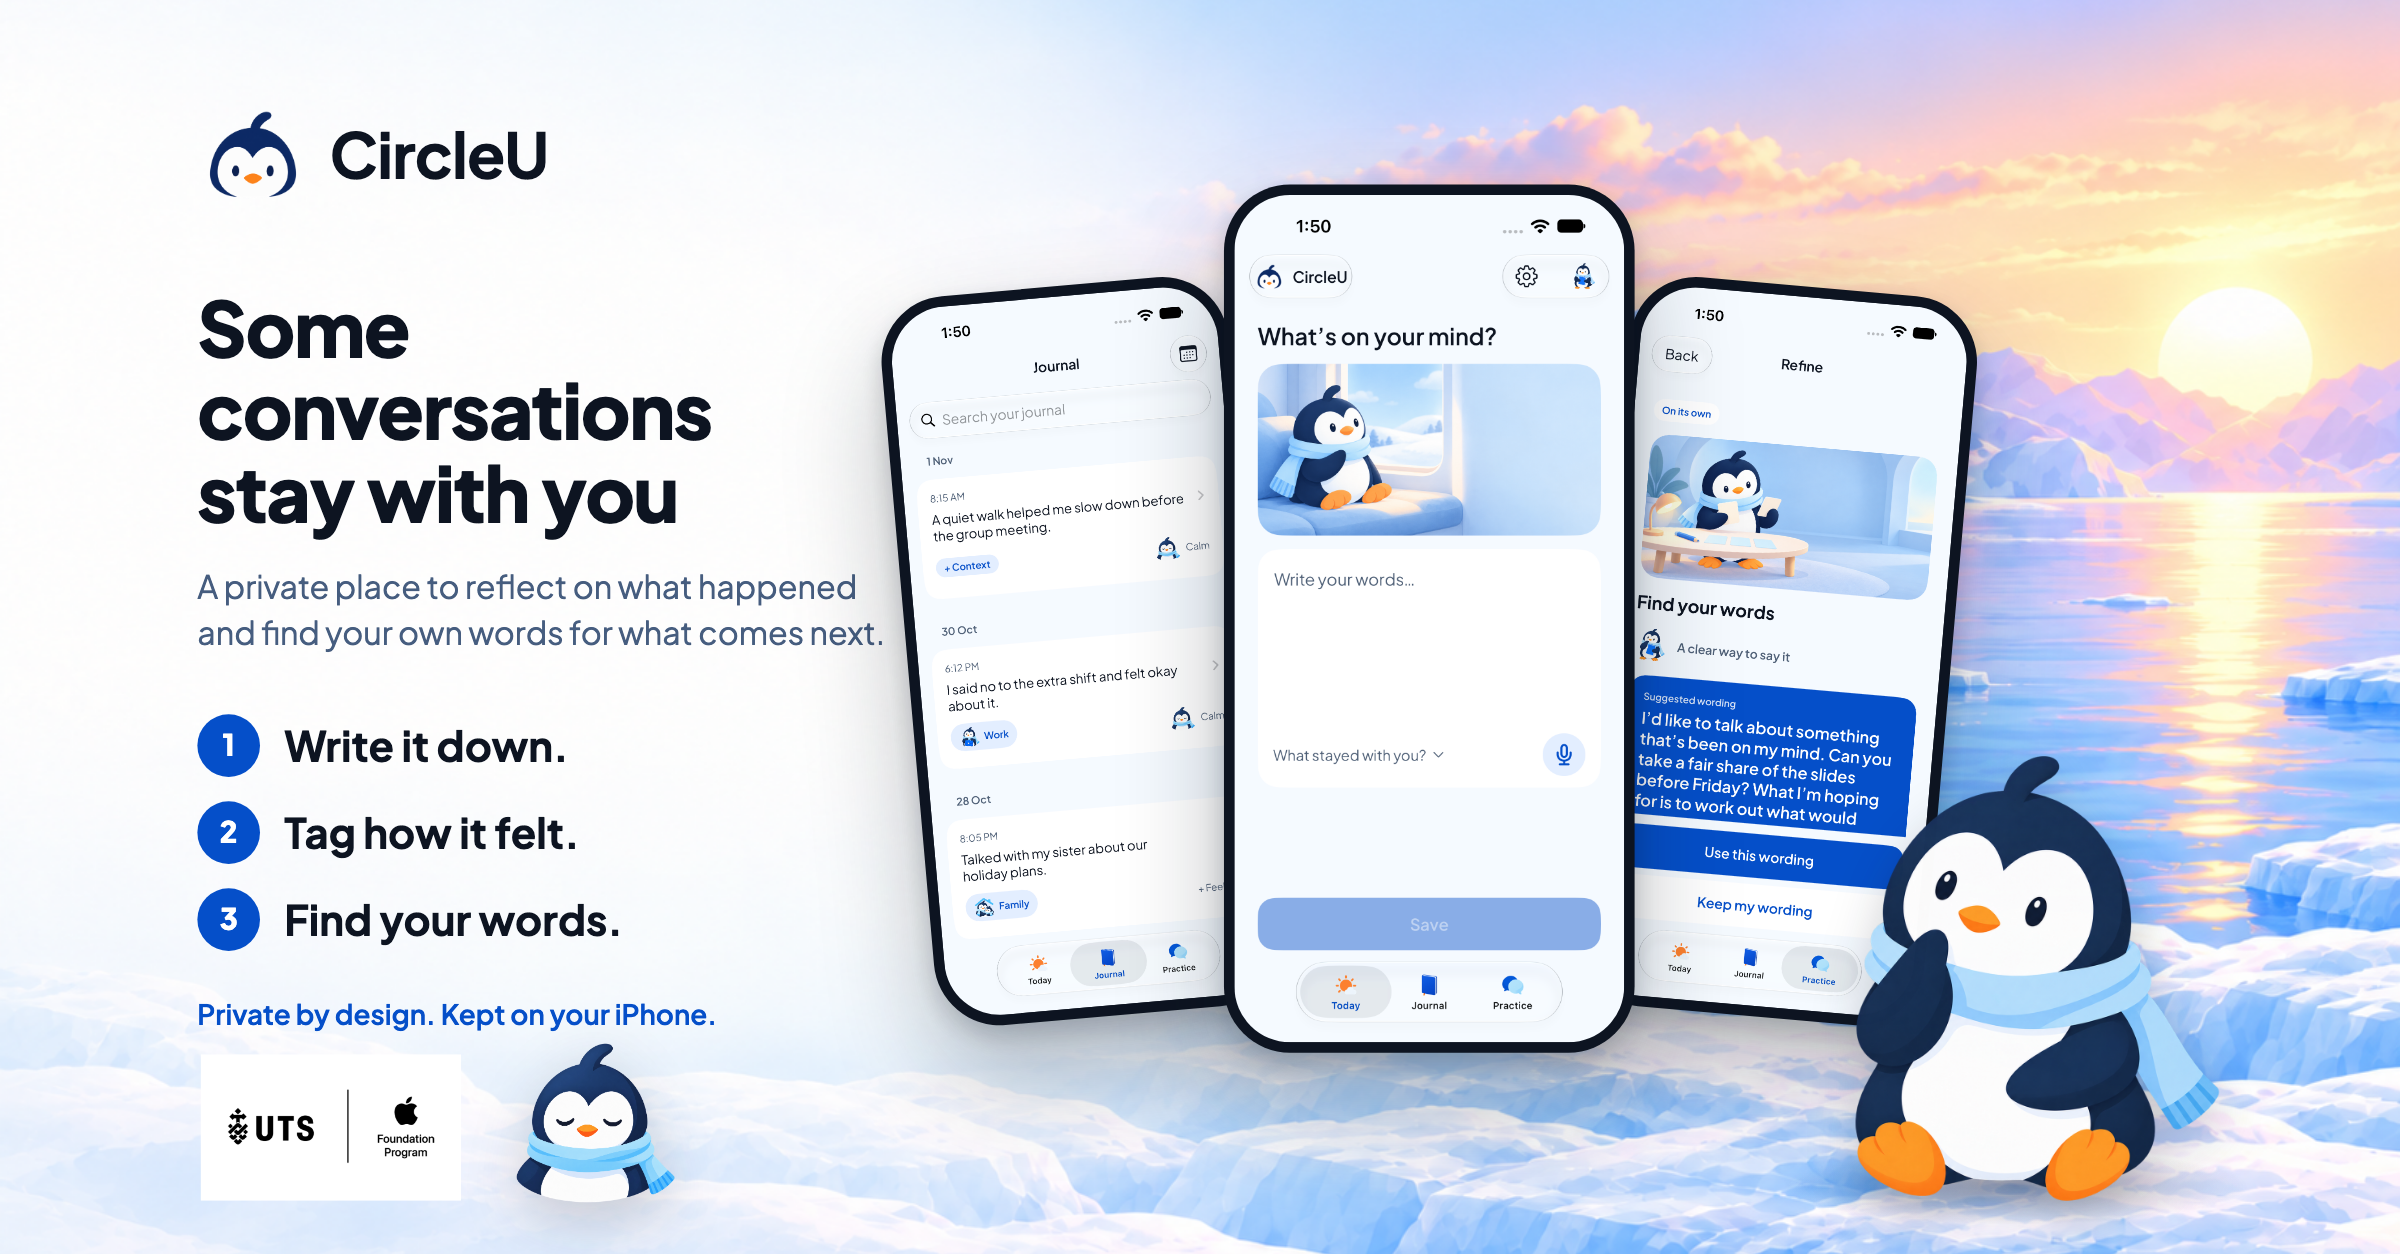
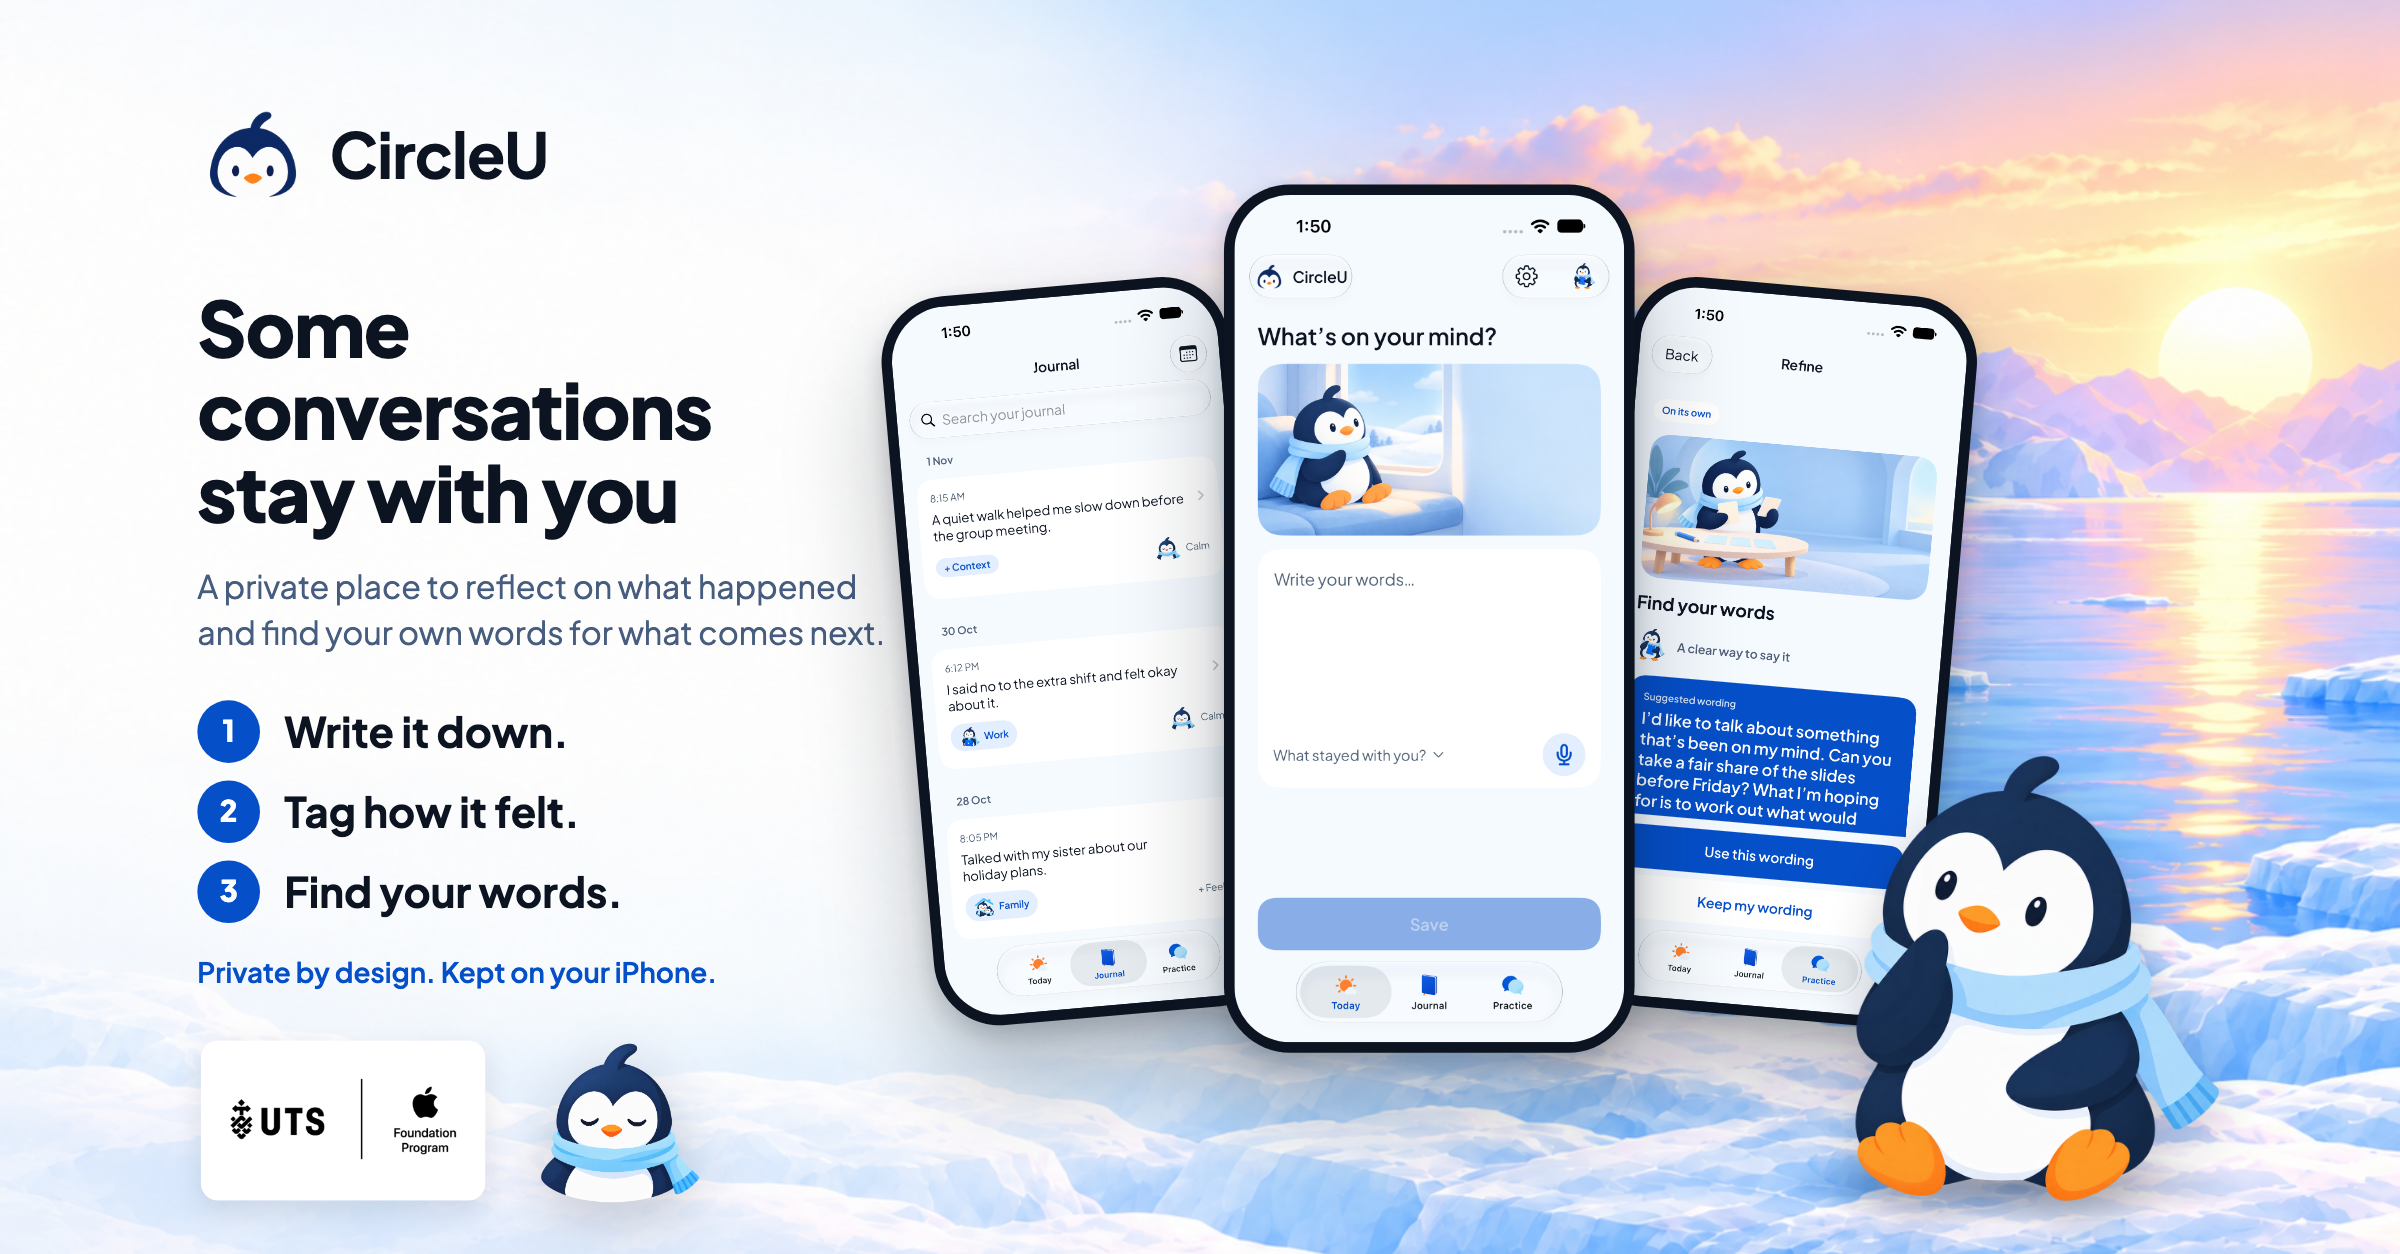
docs(poster): lockup on its white panel, larger; copy spacing tightened

Changed region(s): [[0.0625, 0.5598, 0.3125, 0.9641], [0.0938, 0.8708, 0.1875, 0.933]]

diff --git a/docs/design/showcase-2026-10-30/refinement-07/poster.html b/docs/design/showcase-2026-10-30/refinement-07/poster.html
@@ -31,14 +31,14 @@
   h1 { margin-top: 44px; font-size: 44px; line-height: 1.08; font-weight: 800; letter-spacing: -0.8px; }
   .intro { margin-top: 18px; font-size: 18.5px; line-height: 1.4; color: #465d7f; }
   .label { margin-top: 30px; font-size: 15px; font-weight: 700; color: #054fc9; }
-  .steps { margin-top: 34px; list-style: none; counter-reset: step; }
-  .steps li { counter-increment: step; display: flex; align-items: center; gap: 14px; font-size: 24px; font-weight: 700; line-height: 1.2; margin-bottom: 14px; }
+  .steps { margin-top: 26px; list-style: none; counter-reset: step; }
+  .steps li { counter-increment: step; display: flex; align-items: center; gap: 14px; font-size: 24px; font-weight: 700; line-height: 1.2; margin-bottom: 10px; }
   .steps li::before { content: counter(step); width: 36px; height: 36px; border-radius: 50%; background: #054fc9; color: #fff;
                       font-size: 17px; font-weight: 800; display: inline-flex; align-items: center; justify-content: center; flex: none; }
-  .trust { margin-top: 26px; font-size: 16px; font-weight: 600; color: #054fc9; }
+  .trust { margin-top: 18px; font-size: 16px; font-weight: 600; color: #054fc9; }
   .foot { position: absolute; left: 66px; bottom: 30px; display: flex; align-items: flex-end; gap: 22px; }
   /* The official lockup is black on white; multiply lets the ice show through its white box. */
-  .foot img.lockup { height: 84px; mix-blend-mode: multiply; }
+  .foot img.lockup { height: 92px; border-radius: 10px; box-shadow: 0 6px 16px rgba(13,20,33,.10); }
   .foot img.pingu { height: 104px; margin-bottom: -6px; filter: drop-shadow(0 10px 16px rgba(13,20,33,.2)); }
 
   .phones { position: absolute; left: 472px; top: 44px; width: 600px; height: 676px; }

diff --git a/docs/design/showcase-2026-10-30/refinement-07/poster-linkedin.html b/docs/design/showcase-2026-10-30/refinement-07/poster-linkedin.html
@@ -32,13 +32,13 @@
   h1 { margin-top: 44px; font-size: 44px; line-height: 1.08; font-weight: 800; letter-spacing: -0.8px; }
   .intro { margin-top: 18px; font-size: 18.5px; line-height: 1.4; color: #465d7f; }
   .label { margin-top: 30px; font-size: 15px; font-weight: 700; color: #054fc9; }
-  .steps { margin-top: 34px; list-style: none; counter-reset: step; }
-  .steps li { counter-increment: step; display: flex; align-items: center; gap: 14px; font-size: 24px; font-weight: 700; line-height: 1.2; margin-bottom: 14px; }
+  .steps { margin-top: 26px; list-style: none; counter-reset: step; }
+  .steps li { counter-increment: step; display: flex; align-items: center; gap: 14px; font-size: 24px; font-weight: 700; line-height: 1.2; margin-bottom: 10px; }
   .steps li::before { content: counter(step); width: 36px; height: 36px; border-radius: 50%; background: #054fc9; color: #fff;
                       font-size: 17px; font-weight: 800; display: inline-flex; align-items: center; justify-content: center; flex: none; }
-  .trust { margin-top: 26px; font-size: 16px; font-weight: 600; color: #054fc9; }
+  .trust { margin-top: 18px; font-size: 16px; font-weight: 600; color: #054fc9; }
   .foot { position: absolute; left: 66px; bottom: 30px; display: flex; align-items: flex-end; gap: 22px; }
-  .foot img.lockup { height: 84px; mix-blend-mode: multiply; }
+  .foot img.lockup { height: 92px; border-radius: 10px; box-shadow: 0 6px 16px rgba(13,20,33,.10); }
   .foot img.pingu { height: 104px; margin-bottom: -6px; filter: drop-shadow(0 10px 16px rgba(13,20,33,.2)); }
 
   .phones { position: absolute; left: 472px; top: 44px; width: 600px; height: 676px; }

diff --git a/docs/design/showcase-2026-10-30/refinement-07/README.md b/docs/design/showcase-2026-10-30/refinement-07/README.md
@@ -14,7 +14,7 @@
 | Journal, Today and Practice screens | `GuestShowcaseCaptureUITests.testCaptureShowcaseScreens` on the iPhone 18 Pro Simulator, iOS 27.0: a Journal seeded by the Debug launch argument `-CircleUSeedShowcase` with three tagged entries on three days (today, two and four days ago), the empty Today screen, and the Practice result for an invented group-project message with guided suggestions |
 | Background, wordmark and Pingu | `refinement-04/assets/arctic-background.png`, `BrandArtwork/Expansion05/PinguConsideringV1.png`, `BrandArtwork/BrandLogo.png` and `EmotionPortraits02/PinguCalmTransparentV1.png`, all unchanged files |
 | Type | Bundled Plus Jakarta Sans; headline 44 px, intro 18.5 px, steps 24 px, trust line 16 px on the 1280 × 720 canvas |
-| Program lockup | The same UTS Apple Foundation Program image as refinement 04–06, shown larger with `mix-blend-mode: multiply` so its white box lets the ice through; the mark itself is unchanged. Not a claim of endorsement |
+| Program lockup | The same UTS Apple Foundation Program image as refinement 04–06, shown larger (92 px) on its own white panel with a soft shadow, as the owner chose; the mark itself is unchanged. Not a claim of endorsement |
 
 Owner review, 1 November: background is the existing empty arctic scene (refinement 04) with the sitting, considering Pingu from refinement-04 slide 2 (`Expansion05/PinguConsideringV1.png`) on the ice shelf at the right with a ground shadow, the screen captions and the two footer notes are removed, Pingu sits beside the program lockup, the example quotes are replaced by three steps (Write it down. Tag how it felt. Find your words.) with the line "Private by design. Kept on your iPhone.", and the phones are back at full size between the copy and Pingu. The poster carries no "Design mockups" disclaimer because the screens are real.
 
